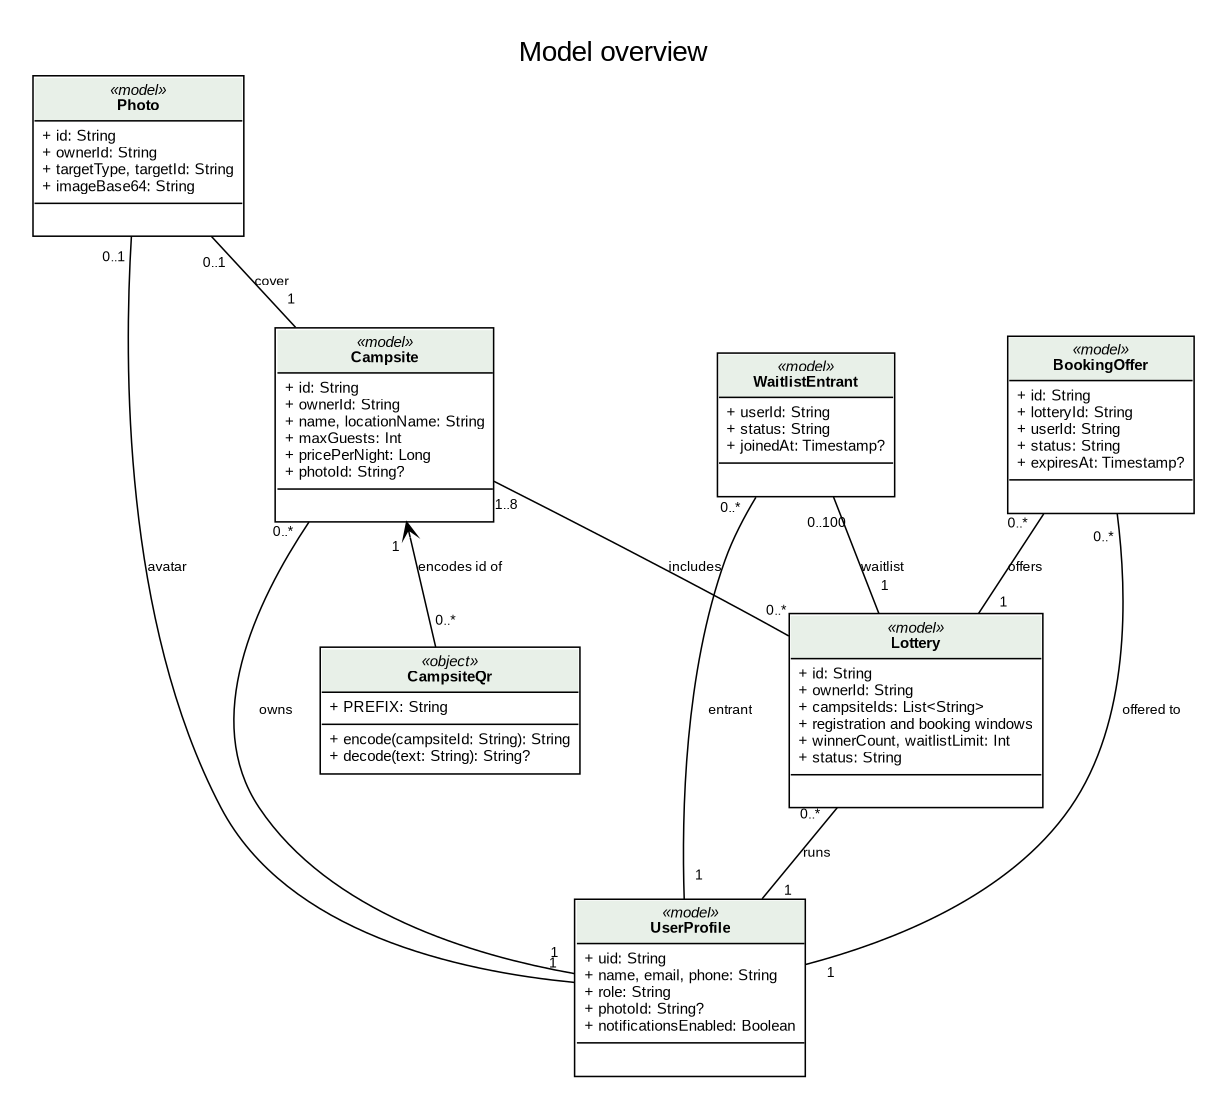
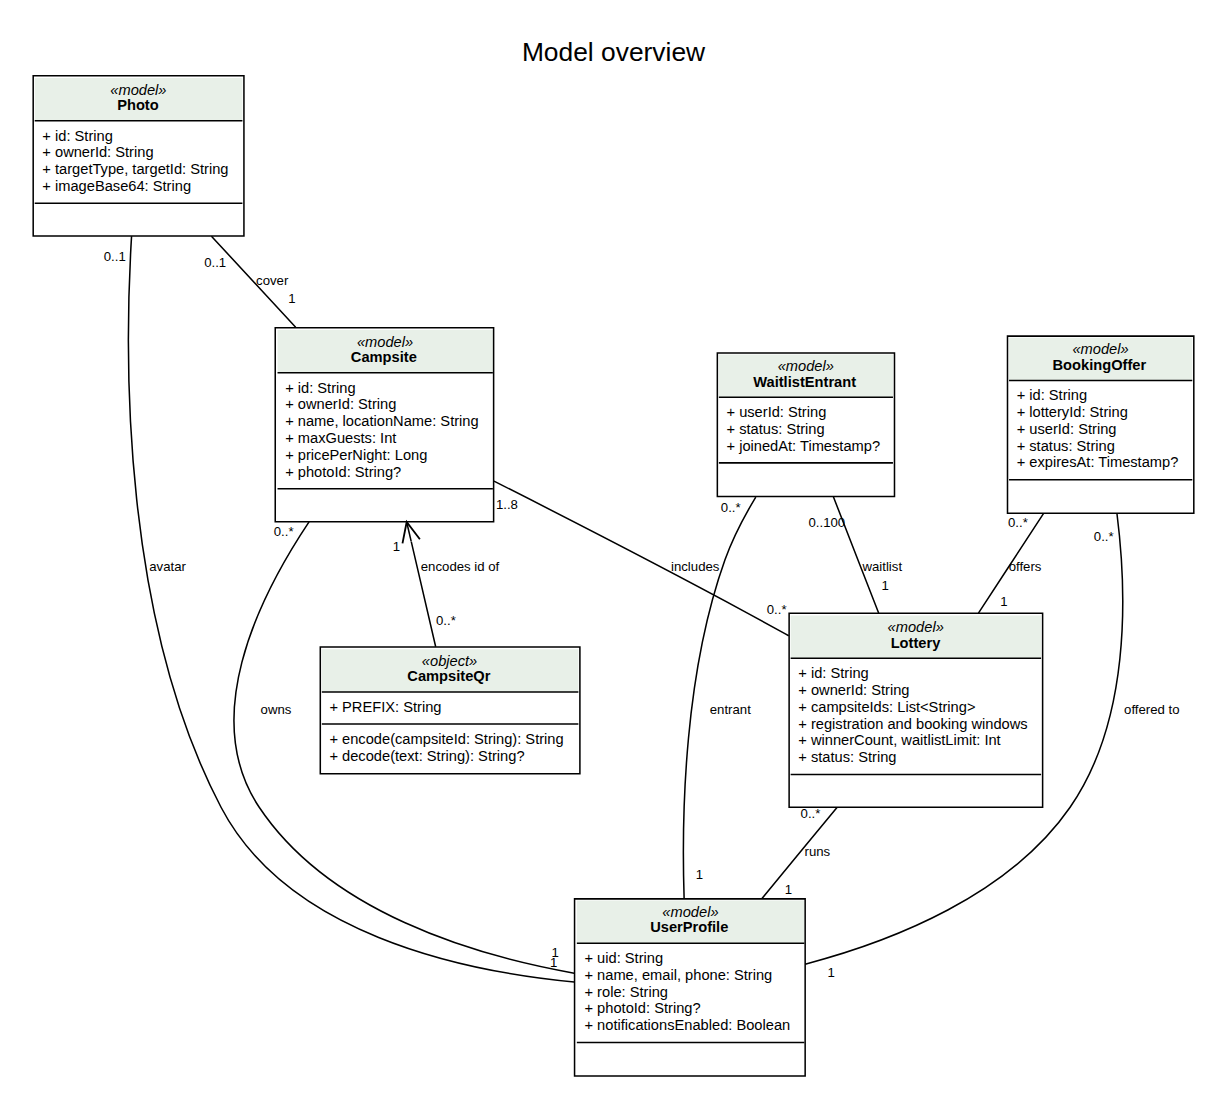
Update UML diagrams: open arrowheads, enum constants, QR scanning, offer screens, lottery worker

diff --git a/doc/uml/render.py b/doc/uml/render.py
@@ -1,0 +1,32 @@
+"""Render a UML .dot file to PNG with open (two-line) navigability arrowheads.
+Usage: python3 render.py in.dot out.png"""
+import math, os, re, subprocess, sys, tempfile
+src, out = sys.argv[1], sys.argv[2]
+MARK = '#000001'
+dot = open(src).read().replace('arrowhead=vee', f'arrowhead=vee arrowsize=1.3 color="{MARK}"')
+svg = subprocess.run(['dot', '-Tsvg'], input=dot, capture_output=True, text=True, check=True).stdout
+
+def open_head(m):
+    pts = [tuple(map(float, p.split(','))) for p in m.group(1).split()]
+    tip, w1, w2 = pts[0], pts[1], pts[-3]
+    mid = ((w1[0] + w2[0]) / 2, (w1[1] + w2[1]) / 2)
+    return (f'<polyline fill="none" stroke="black" stroke-width="1.2" '
+            f'points="{w1[0]},{w1[1]} {tip[0]},{tip[1]} {w2[0]},{w2[1]}"/>'
+            f'<line stroke="black" x1="{mid[0]}" y1="{mid[1]}" x2="{tip[0]}" y2="{tip[1]}"/>')
+svg, n = re.subn(rf'<polygon fill="{MARK}" stroke="{MARK}" points="([^"]+)"/>', open_head, svg)
+svg = svg.replace(MARK, 'black')
+w, h = (float(x) for x in re.search(r'<svg width="([\d.]+)pt" height="([\d.]+)pt"', svg).groups())
+scale = 1
+# Chrome draws text a little wider than Graphviz measured it, so shrink text slightly to stay inside boxes.
+svg = re.sub(r'font-size="([\d.]+)"', lambda m: f'font-size="{float(m.group(1)) * 0.96:.2f}"', svg)
+# Graphviz 2.43 scales by dpi in both the size and a transform; keep only the size.
+svg = re.sub(r'transform="scale\([\d.]+ [\d.]+\) ', 'transform="', svg, count=1)
+tmp = tempfile.mkdtemp()
+html = os.path.join(tmp, 'page.html')
+open(html, 'w').write('<!doctype html><html><body style="margin:0;background:white">'
+                      + re.sub(r'width="[\d.]+pt" height="[\d.]+pt"', f'width="{w}px" height="{h}px"', svg, count=1)
+                      + '</body></html>')
+subprocess.run(['google-chrome', '--headless', '--disable-gpu', '--hide-scrollbars', '--no-sandbox',
+                f'--force-device-scale-factor={scale}', f'--window-size={math.ceil(w)},{math.ceil(h)}',
+                f'--screenshot={os.path.abspath(out)}', html], capture_output=True, check=True)
+print(f'{out}: {n} arrowheads opened')
